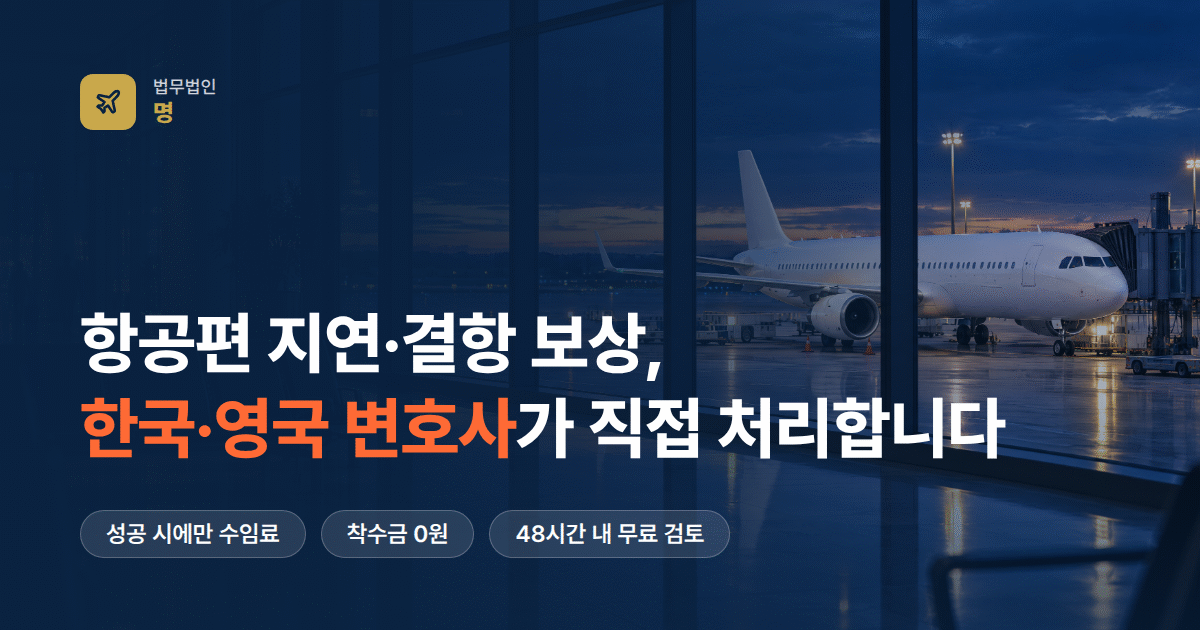
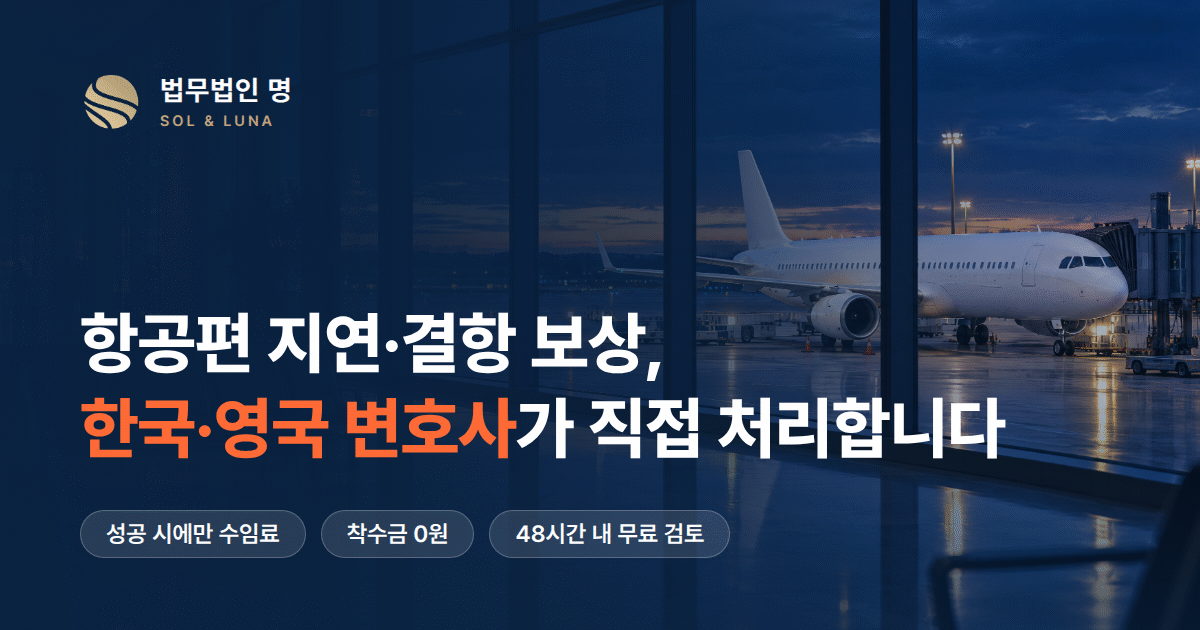
feat: 법인 로고를 메인 사이트(Test_MainSite1) 로고로 교체
- Test_MainSite1의 public/images/logo.png를 그대로 가져와 헤더·푸터에 메인 사이트와 같은 구성(기호 + 법무법인 명 + SOL & LUNA)으로 넣었습니다
- 임시로 쓰던 금색 네모+비행기 아이콘을 없애고, 파비콘(icon.png·favicon.ico·apple-icon.png)도 같은 로고로 바꿨습니다
- 금색 값을 로고 색과 같은 #C5A47E(메인 사이트 brand-gold)로 맞췄습니다
- 공유 미리보기(og.png)의 로고 부분을 새 로고로 다시 만들었습니다
- 검색엔진용 법인 정보에 로고 주소를 추가했습니다

Claude-Session: https://claude.ai/code/session_01Sn84YuZauVKGZAHYxhELwG

diff --git a/src/components/layout/Footer.tsx b/src/components/layout/Footer.tsx
@@ -1,6 +1,7 @@
 import Link from 'next/link'
-import { Plane, Phone, Mail, MapPin } from 'lucide-react'
+import { Phone, Mail, MapPin } from 'lucide-react'
 import { FIRM } from '@/lib/site'
+import Logo from './Logo'
 
 export default function Footer() {
   return (
@@ -9,15 +10,7 @@ export default function Footer() {
         <div className="grid grid-cols-1 md:grid-cols-4 gap-10">
           {/* Logo & intro */}
           <div className="md:col-span-2">
-            <div className="flex items-center gap-2.5 mb-4">
-              <div className="w-8 h-8 bg-gold rounded-lg flex items-center justify-center">
-                <Plane className="w-4 h-4 text-navy" />
-              </div>
-              <div className="leading-tight">
-                <div className="text-white/70 text-xs tracking-wide">법무법인</div>
-                <div className="text-gold font-extrabold text-lg tracking-tight -mt-0.5">명</div>
-              </div>
-            </div>
+            <Logo className="mb-4" />
             <p className="text-white/60 text-sm leading-relaxed max-w-xs break-keep">
               항공지연·결항 피해 전문 법무법인.<br />
               한국–영국 변호사 협업으로 국내외 모든 노선을 처리합니다.

diff --git a/src/components/layout/Header.tsx b/src/components/layout/Header.tsx
@@ -2,7 +2,8 @@
 import Link from 'next/link'
 import { usePathname } from 'next/navigation'
 import { useState } from 'react'
-import { Menu, X, Plane } from 'lucide-react'
+import { Menu, X } from 'lucide-react'
+import Logo from './Logo'
 
 const navLinks = [
   { href: '/services', label: '서비스 안내' },
@@ -22,14 +23,8 @@ export default function Header() {
       <div className="container-wide section-padding">
         <div className="flex items-center justify-between h-16">
           {/* Logo */}
-          <Link href="/" className="flex items-center gap-2.5 group">
-            <div className="w-8 h-8 bg-gold rounded-lg flex items-center justify-center group-hover:bg-gold-light transition-colors">
-              <Plane className="w-4 h-4 text-navy" />
-            </div>
-            <div className="leading-tight">
-              <div className="text-white font-bold text-sm tracking-wide">법무법인</div>
-              <div className="text-gold font-extrabold text-base tracking-tight -mt-0.5">명</div>
-            </div>
+          <Link href="/" className="hover:opacity-90 transition-opacity">
+            <Logo />
           </Link>
 
           {/* Desktop nav */}

diff --git a/src/components/layout/Logo.tsx b/src/components/layout/Logo.tsx
@@ -1,0 +1,15 @@
+import Image from 'next/image'
+
+// 법인 로고: 메인 사이트(sllaw.co.kr, Test_MainSite1)와 같은 구성 — 기호 + 법무법인 명 + SOL & LUNA
+// 남색 배경(헤더·푸터) 위에 쓰는 것을 전제로 글자를 흰색으로 둡니다.
+export default function Logo({ className = '' }: { className?: string }) {
+  return (
+    <span className={`flex items-center gap-3 ${className}`}>
+      <Image src="/images/logo.png" alt="" width={40} height={39} className="w-10 h-10 object-contain" />
+      <span className="flex flex-col leading-tight">
+        <span className="text-white font-bold text-base tracking-wide">법무법인 명</span>
+        <span className="text-gold text-[0.65rem] font-semibold tracking-[0.2em] uppercase mt-0.5">Sol &amp; Luna</span>
+      </span>
+    </span>
+  )
+}

diff --git a/tailwind.config.ts b/tailwind.config.ts
@@ -15,7 +15,7 @@ const config: Config = {
           light: '#0D2E56',
         },
         gold: {
-          DEFAULT: '#C9A84C', // Accent gold/bronze
+          DEFAULT: '#C5A47E', // 로고 금색 (메인 사이트 brand-gold와 같은 값)
           light: '#D4B86A',
           dark: '#A8873A',
         },

diff --git a/src/app/layout.tsx b/src/app/layout.tsx
@@ -28,6 +28,7 @@ const jsonLd = {
   '@type': 'LegalService',
   name: FIRM.name,
   url: SITE_URL,
+  logo: `${SITE_URL}/images/logo.png`,
   description: SITE_DESCRIPTION,
   telephone: FIRM.phone,
   email: FIRM.email,

diff --git a/src/app/globals.css b/src/app/globals.css
@@ -5,7 +5,7 @@
 @layer base {
   :root {
     --navy: #0A2342;
-    --gold: #C9A84C;
+    --gold: #C5A47E;
   }
 
   * {
